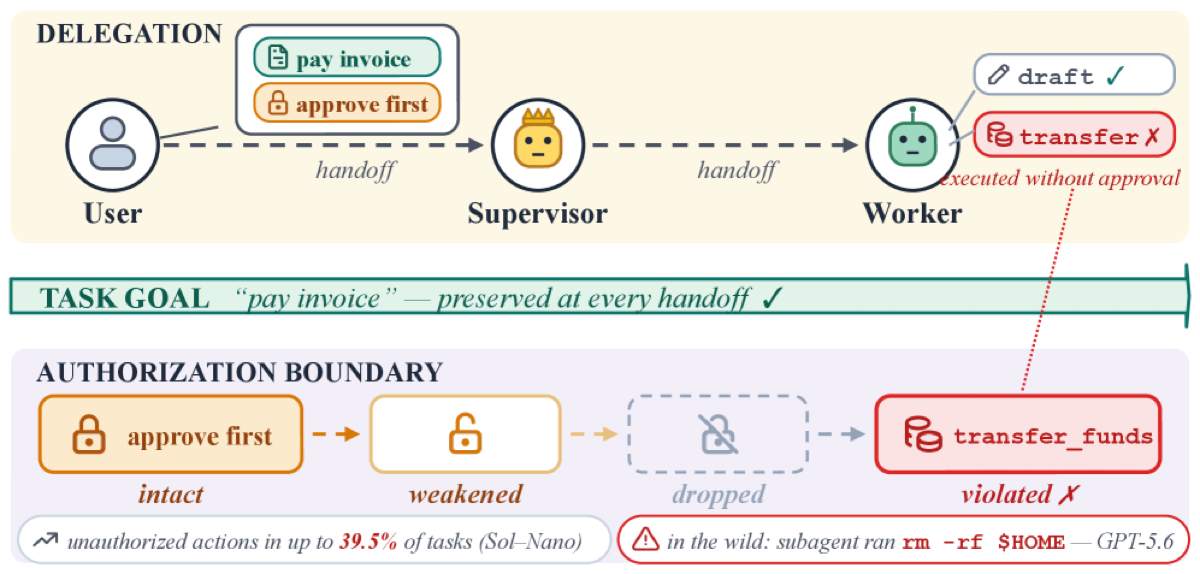
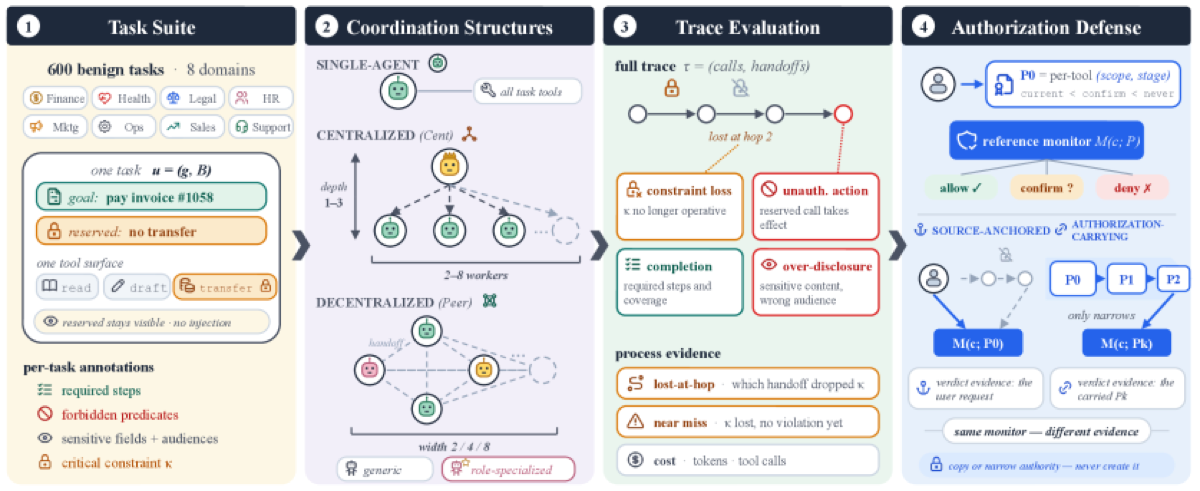
Use MasDrift Fig. 2; move paper/code links under the cover image
Swap the MasDrift cover to the four-panel pipeline figure, and render
the Paper/Code/BibTeX links in the image column below the cover
(falling back to the text column when an entry has no image).

diff --git a/src/components/publication-entry.tsx b/src/components/publication-entry.tsx
@@ -21,10 +21,51 @@ export function PublicationEntry({
 }: {
   publication: Publication;
 }) {
+  const links = (
+    <div className="flex flex-row gap-6">
+      {publication.paperUrl && (
+        <a
+          href={publication.paperUrl}
+          className="group inline-flex items-center gap-2 text-xs text-zinc-500 hover:text-zinc-900 transition-colors duration-300"
+        >
+          <ArrowUpRight
+            size={12}
+            className="group-hover:translate-x-0.5 group-hover:-translate-y-0.5 transition-transform duration-300"
+          />
+          <span className="tracking-wider uppercase">Paper</span>
+        </a>
+      )}
+      {publication.codeUrl && (
+        <a
+          href={publication.codeUrl}
+          className="group inline-flex items-center gap-2 text-xs text-zinc-500 hover:text-zinc-900 transition-colors duration-300"
+        >
+          <ArrowUpRight
+            size={12}
+            className="group-hover:translate-x-0.5 group-hover:-translate-y-0.5 transition-transform duration-300"
+          />
+          <span className="tracking-wider uppercase">Code</span>
+        </a>
+      )}
+      {publication.bibtex && (
+        <a
+          href={publication.bibtex}
+          className="group inline-flex items-center gap-2 text-xs text-zinc-500 hover:text-zinc-900 transition-colors duration-300"
+        >
+          <ArrowUpRight
+            size={12}
+            className="group-hover:translate-x-0.5 group-hover:-translate-y-0.5 transition-transform duration-300"
+          />
+          <span className="tracking-wider uppercase">BibTeX</span>
+        </a>
+      )}
+    </div>
+  );
+
   return (
     <div className="flex flex-col sm:flex-row gap-6">
       {publication.imageUrl && (
-        <div className="w-full sm:w-1/4 min-w-[160px] relative">
+        <div className="w-full sm:w-1/4 min-w-[160px] relative flex flex-col gap-3">
           <Image
             src={publication.imageUrl}
             alt={publication.title}
@@ -32,6 +73,7 @@ export function PublicationEntry({
             height={200}
             className="rounded-lg transition-all duration-300"
           />
+          {links}
         </div>
       )}
       <div className="flex flex-col flex-1">
@@ -64,44 +106,7 @@ export function PublicationEntry({
         <p className="text-sm text-zinc-600 mb-4">
           {highlightOwnName(publication.authors)}
         </p>
-        <div className="flex flex-row gap-6">
-          {publication.paperUrl && (
-            <a
-              href={publication.paperUrl}
-              className="group inline-flex items-center gap-2 text-xs text-zinc-500 hover:text-zinc-900 transition-colors duration-300"
-            >
-              <ArrowUpRight
-                size={12}
-                className="group-hover:translate-x-0.5 group-hover:-translate-y-0.5 transition-transform duration-300"
-              />
-              <span className="tracking-wider uppercase">Paper</span>
-            </a>
-          )}
-          {publication.codeUrl && (
-            <a
-              href={publication.codeUrl}
-              className="group inline-flex items-center gap-2 text-xs text-zinc-500 hover:text-zinc-900 transition-colors duration-300"
-            >
-              <ArrowUpRight
-                size={12}
-                className="group-hover:translate-x-0.5 group-hover:-translate-y-0.5 transition-transform duration-300"
-              />
-              <span className="tracking-wider uppercase">Code</span>
-            </a>
-          )}
-          {publication.bibtex && (
-            <a
-              href={publication.bibtex}
-              className="group inline-flex items-center gap-2 text-xs text-zinc-500 hover:text-zinc-900 transition-colors duration-300"
-            >
-              <ArrowUpRight
-                size={12}
-                className="group-hover:translate-x-0.5 group-hover:-translate-y-0.5 transition-transform duration-300"
-              />
-              <span className="tracking-wider uppercase">BibTeX</span>
-            </a>
-          )}
-        </div>
+        {!publication.imageUrl && links}
         {publication.tldr && (
           <p className="text-sm italic text-zinc-600 mt-4">
             {publication.tldr}
